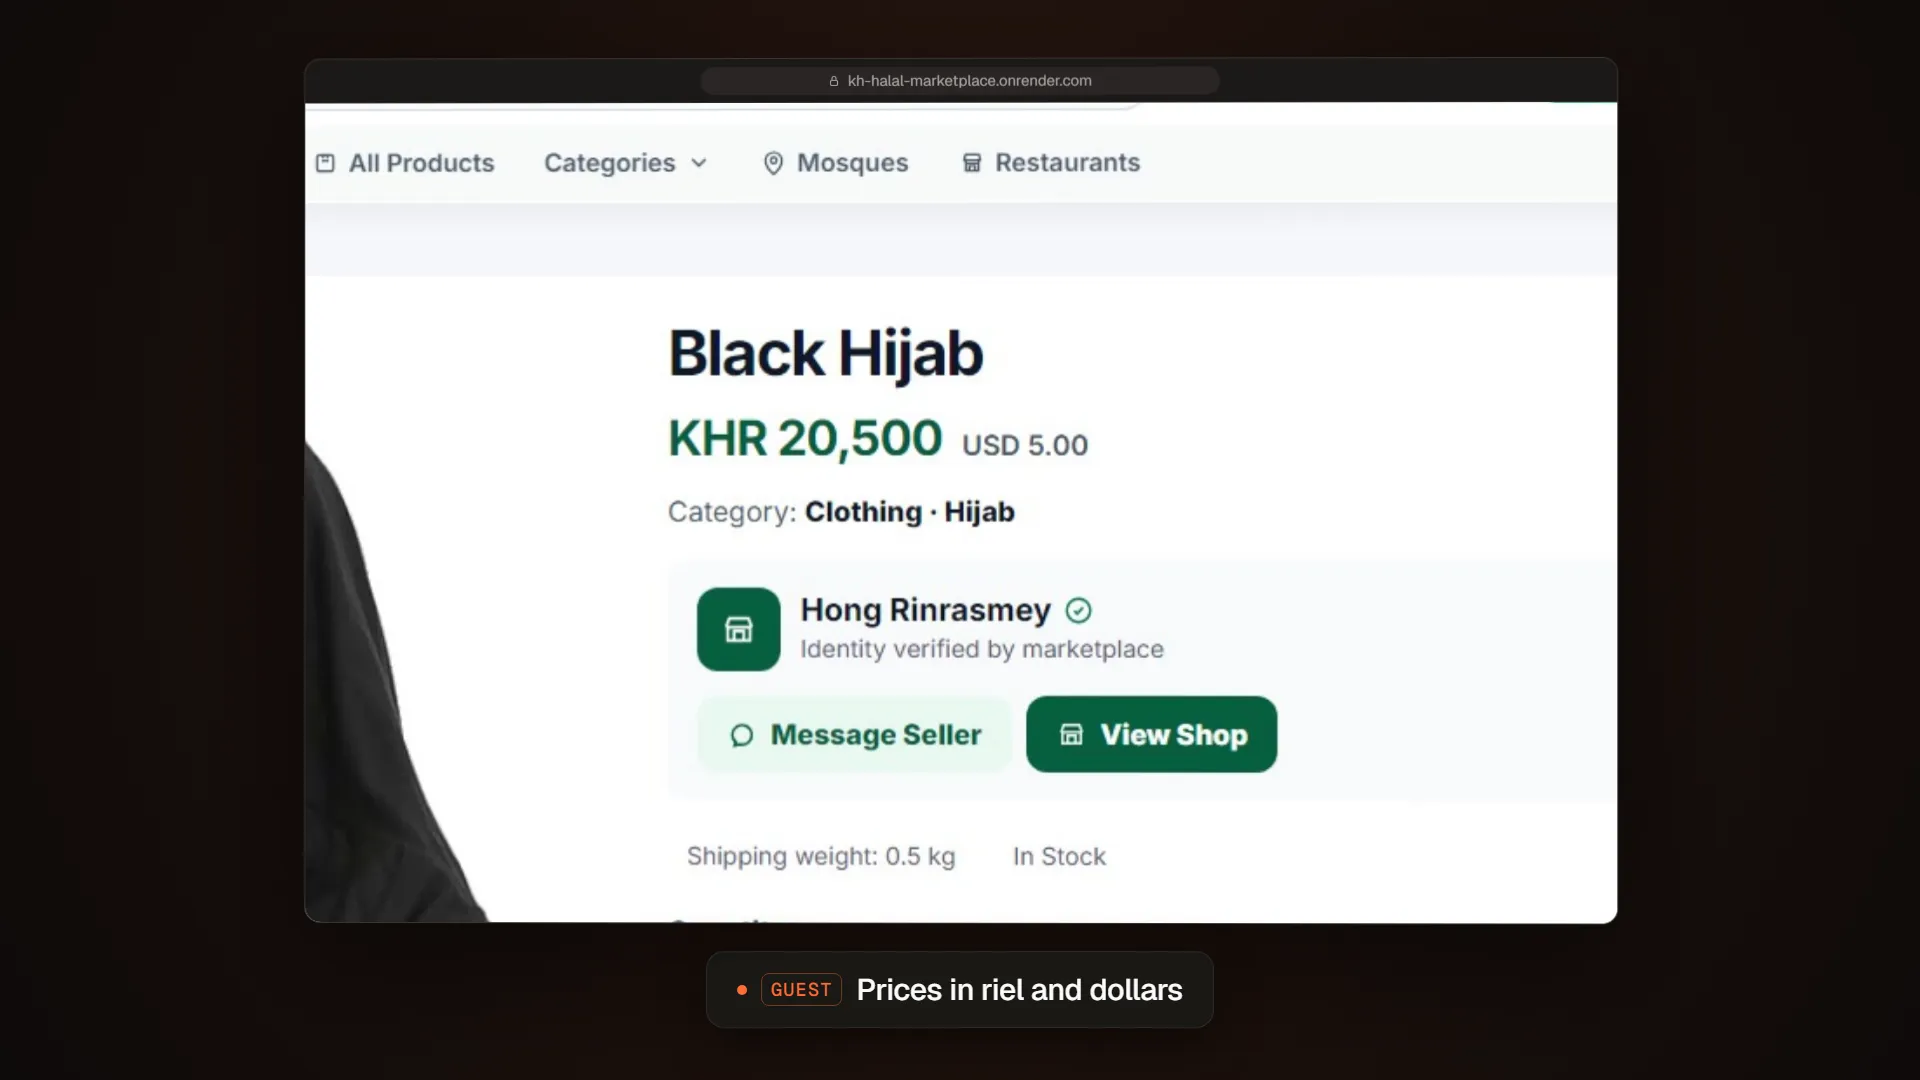
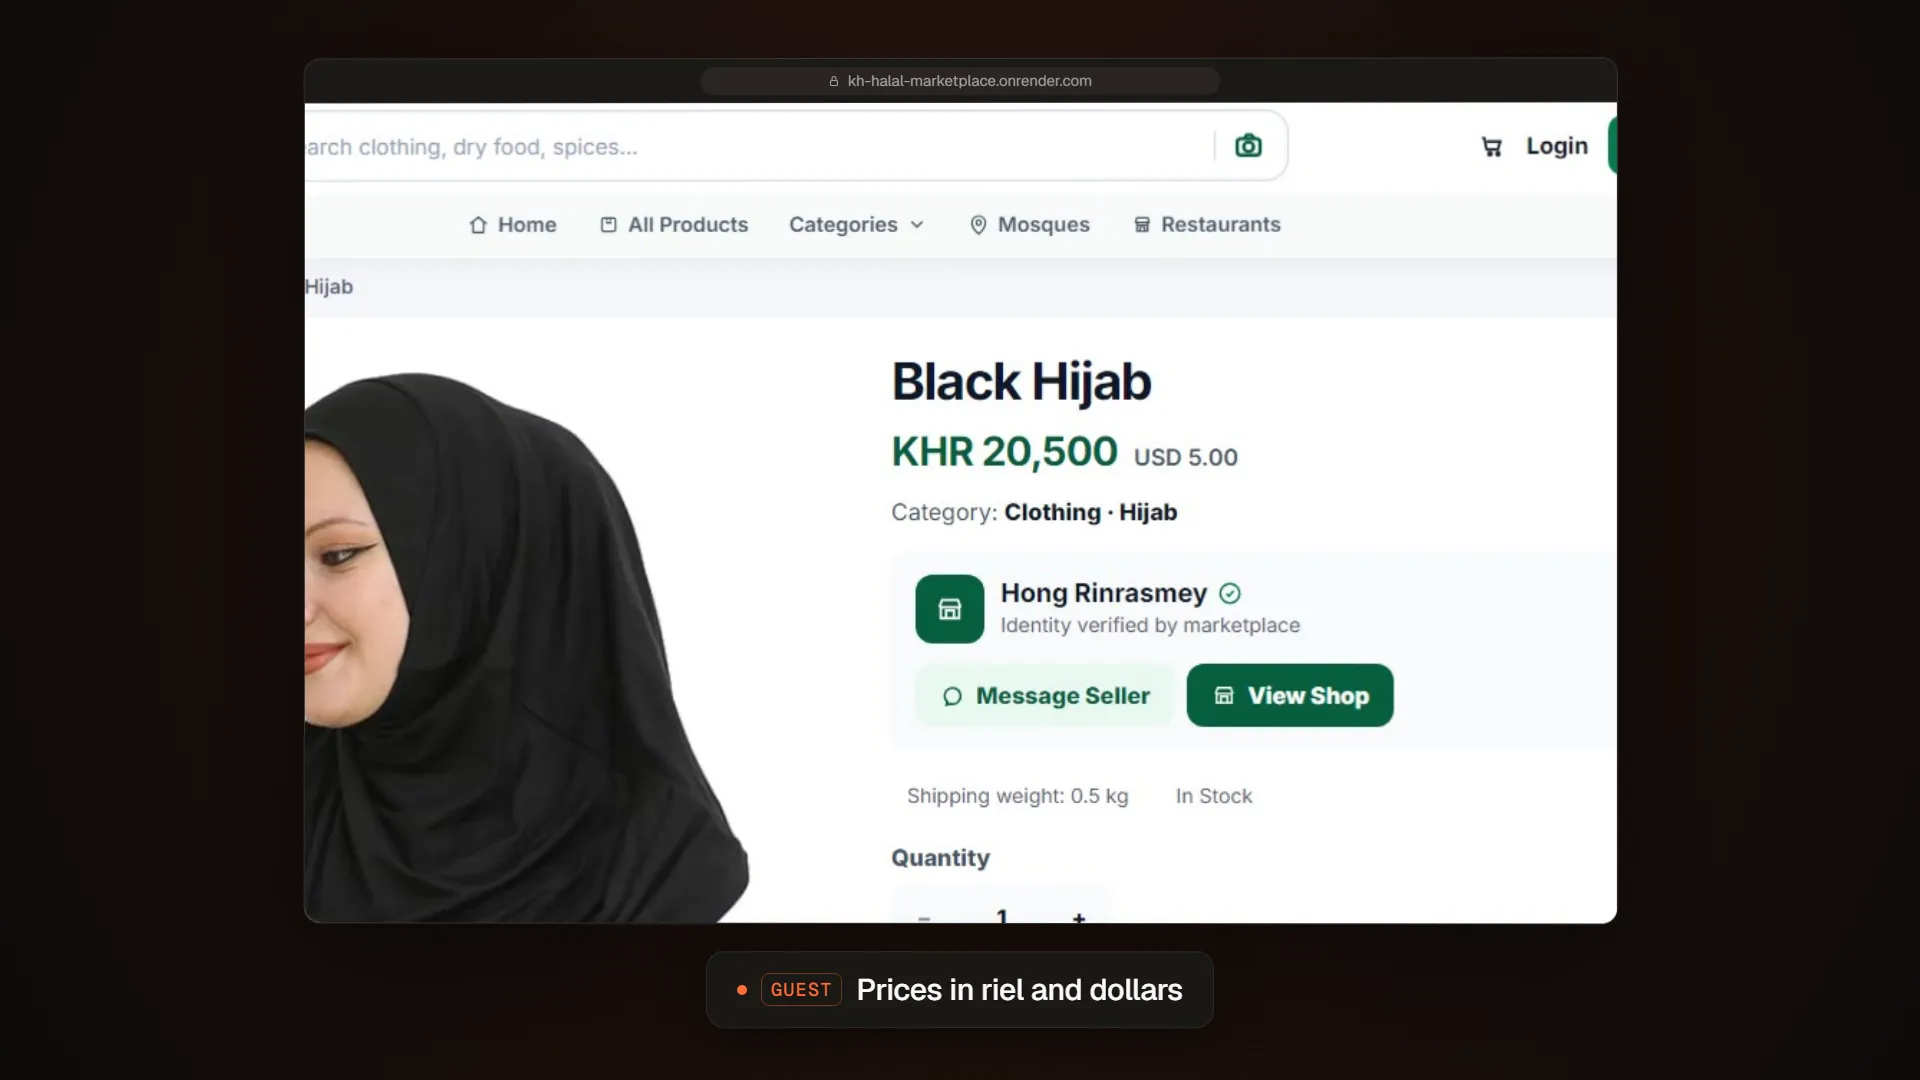
KH Halal video: re-cut without Mosques, only 2 zooms

diff --git a/index.html b/index.html
@@ -218,7 +218,7 @@
                 Watch video
               </button>
               <!-- What the video shows, for people who can't see it. Update it when the video changes. -->
-              <p class="visually-hidden" id="kh-halal-video-desc">Silent demo video, about 40 seconds. A guest browses halal products, sees a price in riel and dollars, adds a hijab to the cart, switches the site to Khmer and opens the mosque list. A signed-in customer opens their wishlist. A seller opens the dashboard and the product list, and starts adding a product.</p>
+              <p class="visually-hidden" id="kh-halal-video-desc">Silent demo video, about 30 seconds. A guest browses halal products, sees a price in riel and dollars, adds a hijab to the cart and switches the site to Khmer. A signed-in customer opens their wishlist. A seller opens the dashboard and the product list, and starts adding a product.</p>
             </div>
             </div>
           </div>

diff --git a/CLAUDE.md b/CLAUDE.md
@@ -544,3 +544,9 @@ Honest review listed: thin About, ID-style photo, big gap under the hero, Contac
 ### Update 2026-11-12: KH Halal demo logins: videos only (owner chose A)
 - No public demo login (real-money checkout). The hidden `project-card__login` row, its CSS and the "Demo login" edit notes (index.html comment, README) were removed. The copy-button JS stays (Contact email uses it). DESIGN.md §5 project entry says "none". Do not add demo logins back.
 - check.mjs all PASS.
+
+### Update 2026-11-13: KH Halal video re-cut (owner: "not good", no Mosques, fewer zooms)
+- QA review of the old cut: zoom on almost every screen (7 keyframes, some cut text mid-sentence, e.g. cart summary), Mosques part not wanted, ~2s logged-in home that looked the same as the guest home, a blank white frame while the cart page loaded. The working copy also held a broken half-rendered mp4 from an earlier session (no moov atom).
+- New cut from the same raw take (`kh-223023`), only `scripts/motion/kh-halal-marketplace.json` changed: guest browse, product, price, add to cart, cart, Khmer; customer wishlist; seller dashboard, products, add-product form with the name typed. Mosques removed. **Only 2 zooms**: the riel + dollar price (1.4x) and the typed product name (1.6x); every other screen is shown whole. Cart segment starts at 16.1s (page load blank before that).
+- 32.4 s, 2.58 MB, new poster (price zoom). `index.html` video description updated (about 30 seconds, no mosque list). check.mjs all PASS.
+- Render needs Playwright 1.49.1 via `NODE_PATH` (installed in the session scratchpad this time).
